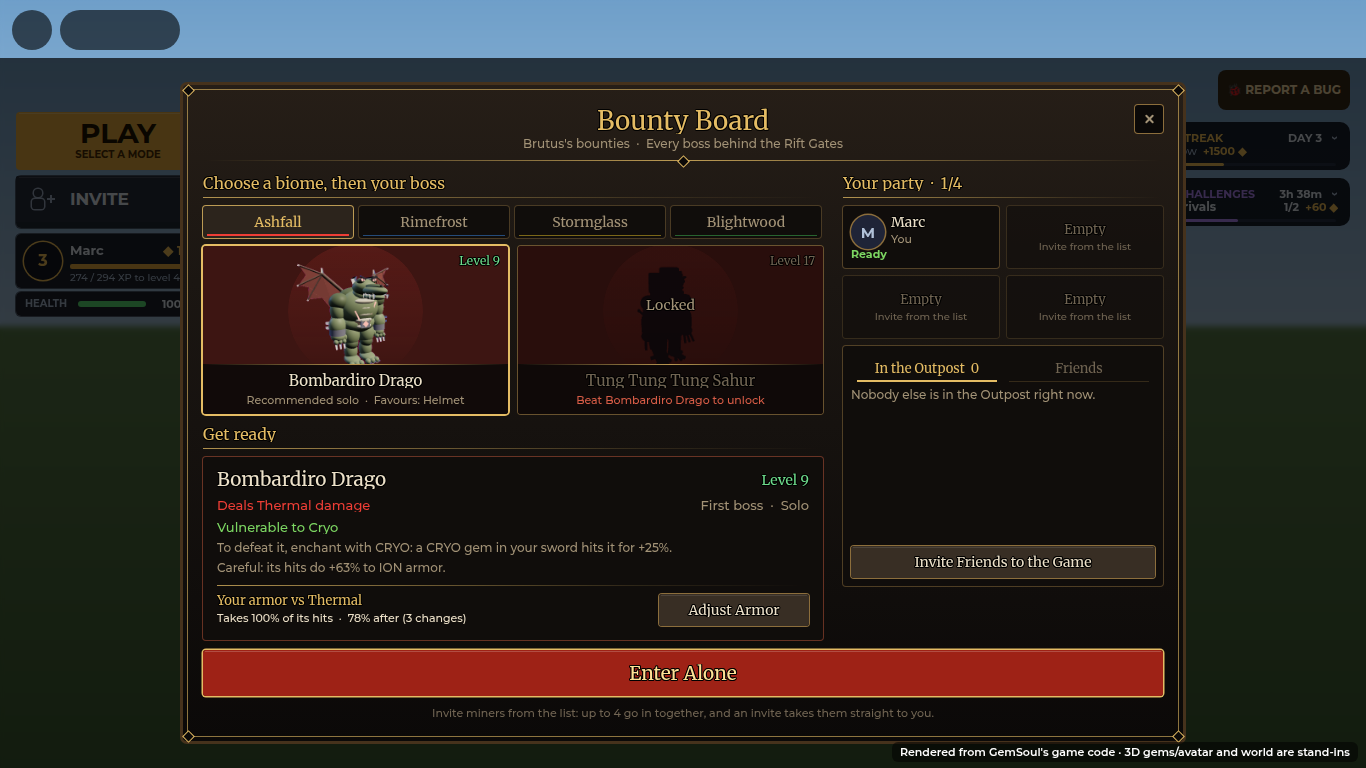
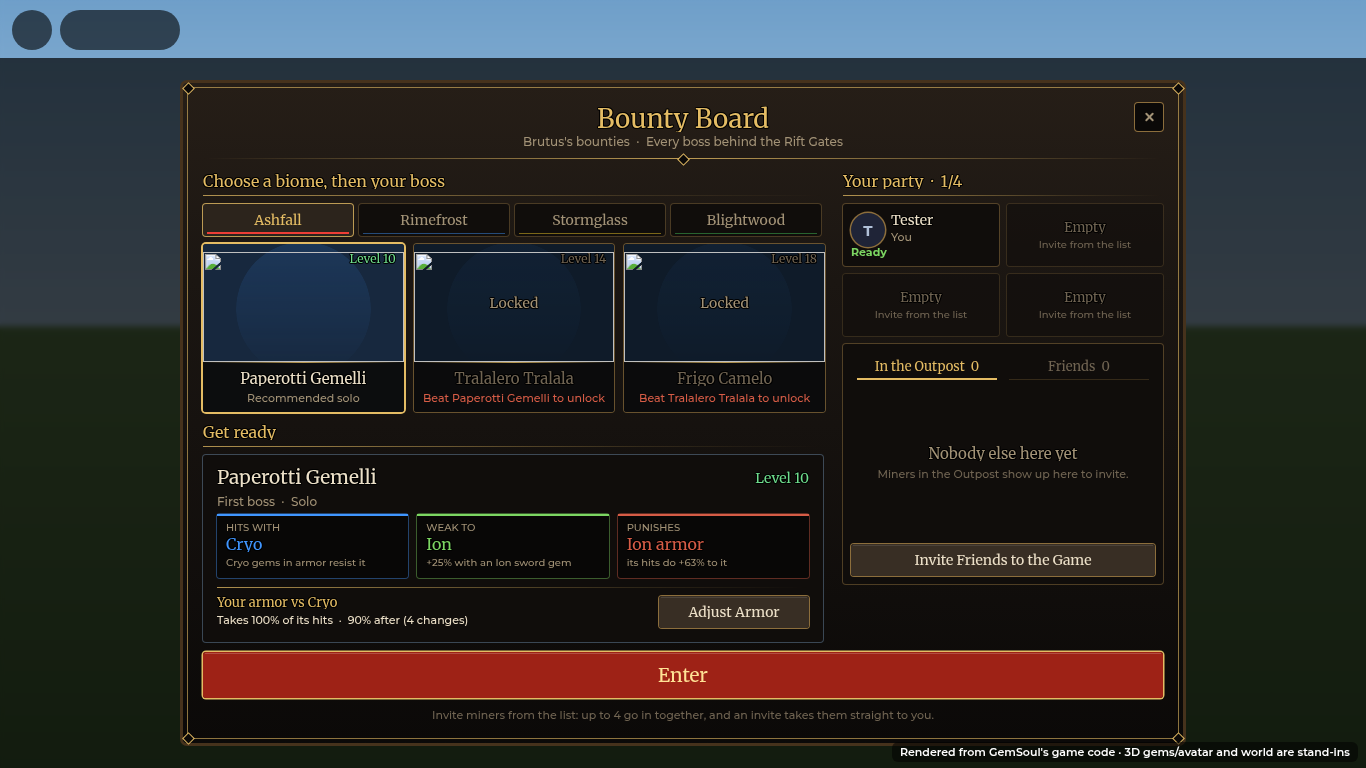
Bounty Board: readable buttons, the boss's matchup in three tiles
Every gilt button's gradient sat on the button itself, which tints its words
too: Enter Alone, Adjust Armor and Invite Friends came out dark on dark. The
colour is now a face behind the words, which follow the button's own Text,
colour and fade, so every gilt button reads (the Kennel sale and coin
windows too).

The Get ready card trades its run-on tip lines for three tiles: what the
boss hits with, what it's weak to (and what a sword gem of it adds) and the
armor it punishes. An empty people list says so in the middle, with what to
do. Spanish for the new words.

Claude-Session: https://claude.ai/code/session_01M9AaiFqQ2dWL5tTu8tuKaL

diff --git a/docs/rift.md b/docs/rift.md
@@ -745,15 +745,18 @@ drawn like a fantasy MMO's dialog window, not a stack of coloured pills:
   builds it; the backup and down cards keep the plain card.
 - **Words**: serif (Merriweather) headings in old gold over a gilt rule
   fading out (`Gilt.heading`), sentence case, no numbered steps.
-- **Colour means something**: the boss's element ("Deals Thermal damage"),
-  green for what beats it and for ready, the level in its danger's colour
-  (green, amber, red), red for what a locked boss needs.
-- **The boss picked** reads like a tooltip: name and level, what it hits
-  with, who it's for, what it's weak to, how to beat it, then your armor
-  against it and **Adjust Armor**.
+- **Colour means something**: the boss's element, green for what beats it
+  and for ready, red for the armor it punishes, the level in its danger's
+  colour (green, amber, red), red for what a locked boss needs.
+- **The boss picked**: name and level, who it's for, then three tiles side
+  by side (**Hits with** its element, **Weak to** the element that beats
+  it and what a sword gem of it adds, **Punishes** the armor its hits do
+  extra to), then your armor against it and **Adjust Armor**.
 - **Buttons** (`Gilt.button`): crimson in a gold rim for the one that
   matters (Enter, Go In Now), dark stone in brass for the rest; the rim
-  brightens under the mouse.
+  brightens under the mouse. The colour is a face behind the words (a
+  gradient on the button itself tints its words too, dark on dark).
+- **An empty people list** says so in the middle of it, with what to do.
 - **Party**: members in recessed wells, faces in gilt rings (gold for the
   leader), "Ready · Leader" in words; the people list has underlined tabs.
 
